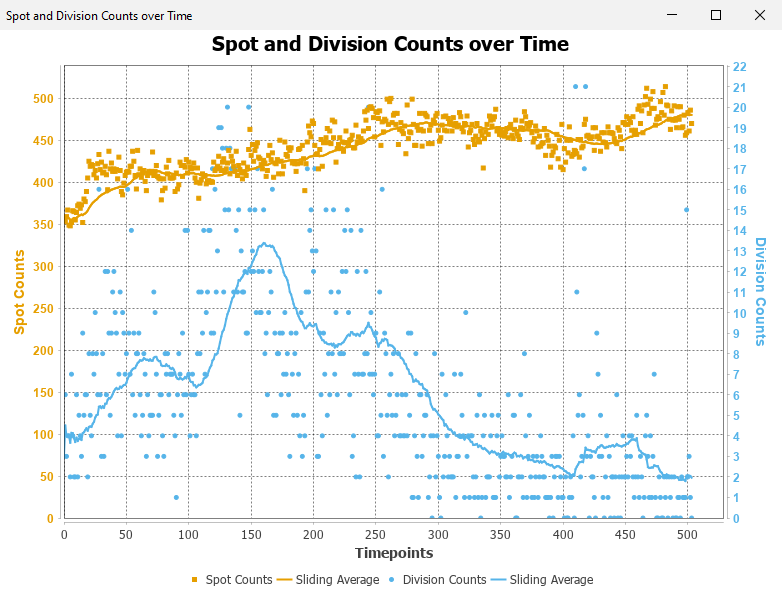
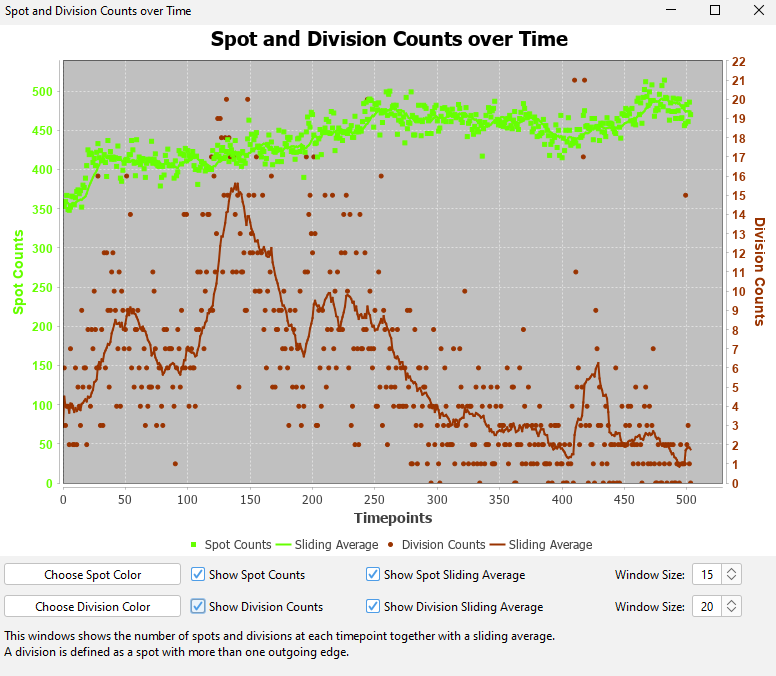
Update docs

diff --git a/README.md b/README.md
@@ -354,6 +354,8 @@ The plugin allows performing various operations based on the correspondence info
 * Menu Location: `Plugins > Lineage analysis > Show spot and division counts over time`
 * The command shows a plot of the number of spots and divisions over time.
 * It is possible to set a window size, which is used to compute a sliding average.
+* Colors, visibilities, and sliding average windows size can be set in the plot and are persisted as user preference
+* A context menu allows to export the plot as a PNG/SVG file.
 * A division is defined as a spot with more than one outgoing edge.
 * Example: ![spot_and_division_counts_over_time.png](doc/lineageanalysis/spot_and_division_counts_over_time.png)
 
